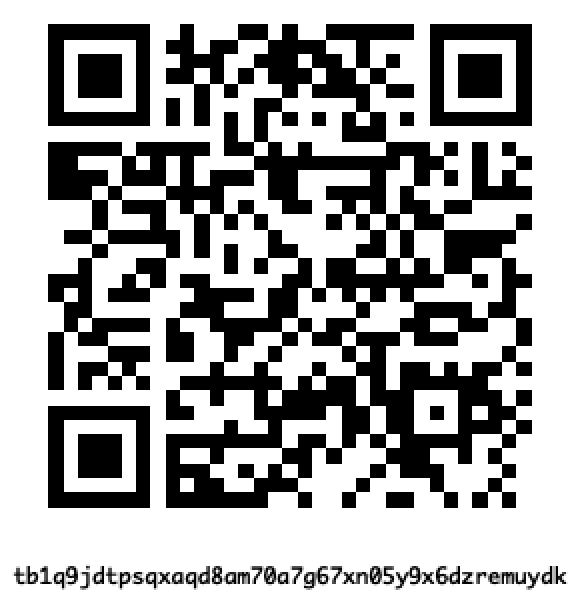
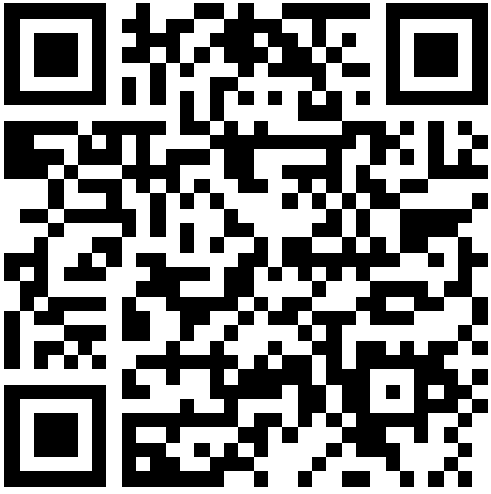
Increase image sizes for crime on testnet
Also replace the blurry testnet address under the QR code with a text label.

Tweak text spacing / new pages to nudge images to the right position.

diff --git a/appendix/crime-on-testnet.md b/appendix/crime-on-testnet.md
@@ -7,36 +7,37 @@ On a warm summer day I crave a frappuccino. Unfortunately drugs such as caffeine
 
 Fortunately I know a guy, and he charges 0.002,000,-- bitcoin. I spin up my Bitcoin Core wallet, because I like the retro look. It doesn’t even use comma’s after the decimal separator, something we all got used to during the hyper-deflation era. Some people would just say 2,000 Bitcoin, but don’t say that anywhere near a Core church!
 
+\newpage
 First I need to buy some Bitcoin. Bitcoin in Europe is a bit like guns in the USA. A lot of people don’t like it, others love it, but it’s perfectly legal. So I surf to bitonic.nl to buy a little more than I need:
 
-![](appendix/buy.png){ width=30% }
+![](appendix/buy.png){ width=40% }
 
 I pay with iDEAL, which is used for all online (fiat) shopping. They need a Bitcoin address to send it to, which I obtain from my Bitcoin Core wallet:
 
-![](appendix/core-2.png){ width=80% }
-
+![](appendix/core-2.png){ width=100% }
+\newpage
 I click Request payment and get an address:
 
-![](appendix/core-3.png){ width=30% }
+![[tb1q9jdtpsqxaqd8am70a7g67xn05y9x6dzremuydk](https://blockstream.info/testnet/address/tb1q9jdtpsqxaqd8am70a7g67xn05y9x6dzremuydk)](appendix/core-3.png){ width=30% }
 
 I copy the address into the Bitonic form under “Your bitcoinaddress”, ignore all the warnings my banking app gives, and finish the €10 payment. A few moments later Bitcoin Core tells me that I received 0.003,247,40 BTC on the address that I labeled “Buy Bitcoin” and that I gave to Bitonic (tb1q9jdtps…):
 
-![](appendix/core-4.png){ width=70% }
+![](appendix/core-4.png){ width=100% }
 
 While I wait for the transaction to confirm on the blockchain, I walk to my guy, let’s call him Dmitry even though that’s racist. He opens his own wallet and gives me an address (tb1qnm…), which I enter into my wallet in order to send him 0.0002,000,-- BTC.
 
-![](appendix/core-5.png){ width=/80% }
+![](appendix/core-5.png){ width=100% }
 
 Dmitry knows where I live, so he doesn’t wait for confirmation and just gives me the frap. We could have used Lightning to make the payment go through instantly without having to wait for confirmation. Lightning also doesn’t leave the same traces on the blockchain, so it could have prevented the pain soon to come. But we didn’t.
 
 So now my wallet looks like this and that should be where the story ends for me:
 
-![](appendix/core-6.png){ width=80% }
+![](appendix/core-6.png){ width=100% }
 
 Dmitry in the mean time sells a bunch of fraps to different customers, giving each one a unique address. Their wallets will look exactly the same as mine. At the end of the day, Dmitry’s wallet looks like this:
 
-![](appendix/core-7.png){ width=80% }
-
+![](appendix/core-7.png){ width=100% }
+\newpage
 Dmitry wants to buy some alcohol, the only drug that’s still legal, despite the violence, broken families, destroyed careers, crime, disease and mass road casualties it caused, especially after AI cars were banned. This was partially because AI cars enriched the big corporations that leased them out to the poor - who previously couldn’t afford a car - but what really broke the camels back was the ISIS hack that killed 15 million people during their work commute.
 
 Alcohol is only for sale in supermarkets and in order to monitor population health, you’re strongly encouraged to buy food with your bank card. This gives insurance companies a precise overview of how many calories you and your family are consuming, and municipal health workers use this data to pro-actively put problematic people on a diet. Privacy activists cried wolf about this as usual, but the policy never caused any real issues and the health statistics speak for themselves. There was a proposal to allow Bitcoin payments in supermarkets by taking a passport scan, like with cash, but this lead to GDPR problems.
@@ -45,21 +46,21 @@ Anyway, why doesn’t Dmitry just use Bitonic to sell his coins? Well, because h
 
 So Dmitry now has an empty wallet and Kees received just a little under 0.006,000,-- BTC in his wallet (miners take a small fee to process each transaction):
 
-![](appendix/core-8.png){ width=80% }
+![](appendix/core-8.png){ width=100% }
 
 Kees has a problem. He’s being watched. Soon after the trade with Dmitry an undercover cop offers to sell 0.001,000,-- BTC. Kees offers him cash at 10% below the market price and gives the address tb1q3nf… Now his wallet looks like this:
 
-![](appendix/core-9.png){ width=80% }
+![](appendix/core-9.png){ width=100% }
 
 Unbeknownst to Kees, Dmitry was caught on camera selling coffee that day, he was arrested on his way out of the supermarket. His (empty) Bitcoin wallet was confiscated, as was his now empty fiat wallet and what was left in the liquor bottle. The wallet contained transactions and notes as you can see above. The timing of each transaction coincided with the camera footage, the amount matched the well known price of fraps, and the notes even said it was fraps. The wallet also shows the destination address where Dmitry sent the BTC (tb1qja…), which the police suspect belongs to Kees. They suspect Dmitry sold the coins in exchange for cash, though they were too late to find the cash.
 
 Kees is not arrested yet and so nobody knows what his Bitcoin addresses are. A privacy activist approaches him, because he wants to buy Bitcoin and doesn’t want the kind of surveillance that comes with buying coins online with iDeal. He has no intention of committing any crime whatsoever, not even tax evasion. He withdraws some of his hard and legally earned cash from an ATM. He then endures the long phone interrogation by his bank that always follows such behavior. He then negotiates a nice 3% fee above market rate. Kees sends him the coins, so Kees’ wallet now looks like this (2 buys, 1 sell):
 
-![](appendix/core-10.png){ width=80% }
+![](appendix/core-10.png){ width=100% }
 
 Meanwhile our police officer, let’s call him Donald, goes online and looks up the address used in his trade with Kees (tb1q3nf…). Bitcoin Core doesn’t support address lookups, because it doesn’t scale well and as Wladimir van der Laan put it “bitcoin core is not meant as a chain analysis platform”. His favorite block explorer blockchain.com doesn’t support bech32 address lookups, so he goes to a competitor:
 
-![](appendix/explorer.png){ width=80% }
+![](appendix/explorer.png){ width=100% }
 
 This page describes transactions related to the tb1q3nf… address. He suspects this address belongs to Kees, because it’s the address Kees gave him to send coins to.
 
